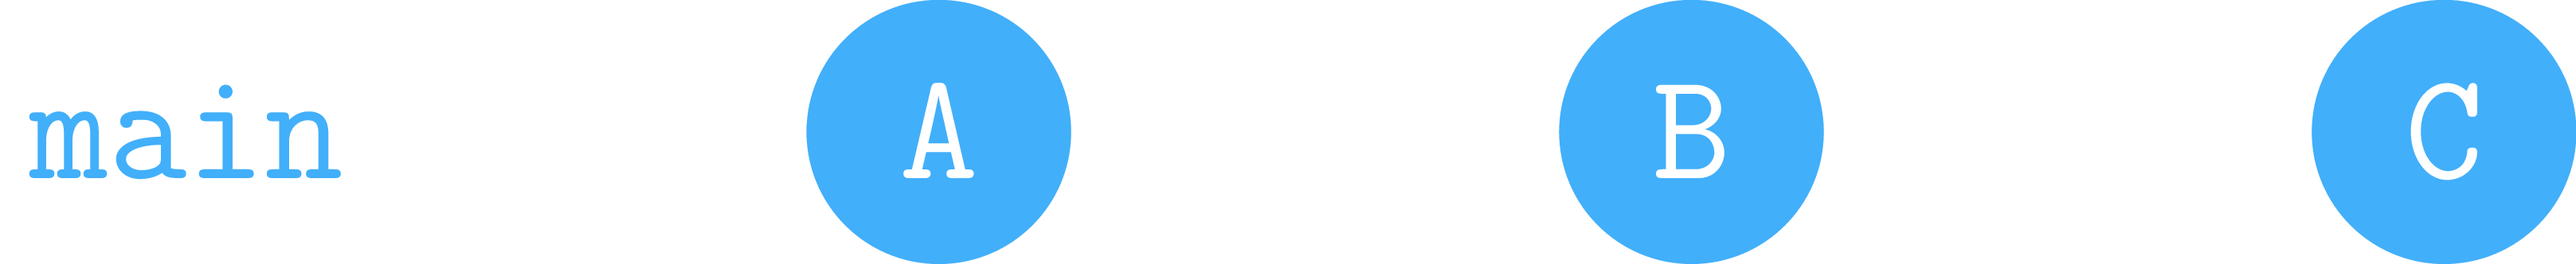
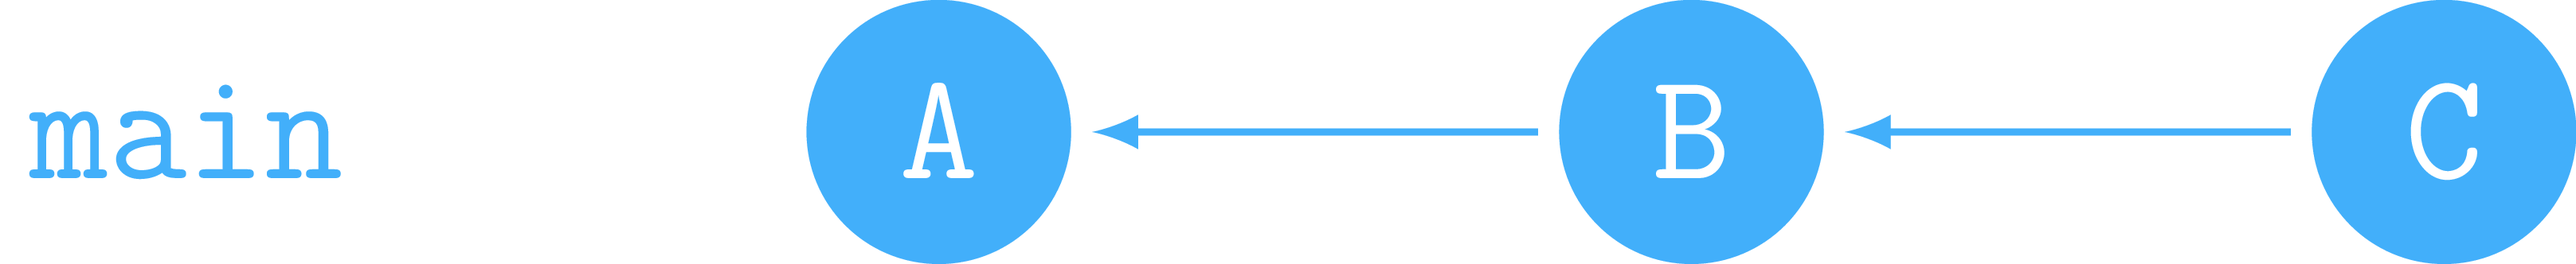
Change color of arrows in history plots
To allow better readability on GitHub

Changed region(s): [[0.406, 0.4518, 0.6246, 0.5422], [0.7183, 0.4518, 0.9057, 0.5422]]

diff --git a/version-control/material/figs/history_merge/fig.tex b/version-control/material/figs/history_merge/fig.tex
@@ -1,3 +1,4 @@
+% build with: pdflatex --shell-escape fig.tex
 \documentclass[tikz, convert={density=800}]{standalone}
 
 \usepackage{tikz}
@@ -5,7 +6,7 @@
 \definecolor{myBlue}{HTML}{42affa}
 
 \begin{document}
-\begin{tikzpicture}[>=latex, thick, shorten >=2pt, shorten <=2pt, ->, white]
+\begin{tikzpicture}[>=latex, thick, shorten >=2pt, shorten <=2pt, ->, myBlue]
   \tikzstyle{C}=[circle,fill=myBlue,text=white,minimum size=30pt,inner sep=2pt, font=\LARGE]
   \tikzstyle{M}=[circle,fill=myOrange,text=white,minimum size=30pt,inner sep=2pt, font=\LARGE]
   \tikzstyle{B}=[text=myBlue, font=\LARGE]
@@ -23,8 +24,8 @@
   \draw [<-] (B) to (C);
   \draw [<-] (A) to (D);
   \draw [<-] (D) to (E);
-  \draw [<-] (C) to (M);
-  \draw [<-] (E) to (M);
+  \draw [<-, myOrange] (C) to (M);
+  \draw [<-, myOrange] (E) to (M);
   
   \node[B] at (-3,3) {\texttt{main}};
   \node[B] at (-3,1) {\texttt{feature}};

diff --git a/version-control/material/figs/history_rebase/fig.tex b/version-control/material/figs/history_rebase/fig.tex
@@ -1,3 +1,4 @@
+% build with: pdflatex --shell-escape fig.tex
 \documentclass[tikz, convert={density=800}]{standalone}
 
 \usepackage{tikz}
@@ -5,7 +6,7 @@
 \definecolor{myBlue}{HTML}{42affa}
 
 \begin{document}
-\begin{tikzpicture}[>=latex, thick, shorten >=2pt, shorten <=2pt, ->, white]
+\begin{tikzpicture}[>=latex, thick, shorten >=2pt, shorten <=2pt, ->, myBlue]
   \tikzstyle{C}=[circle,fill=myBlue,text=white,minimum size=30pt,inner sep=2pt, font=\LARGE]
   \tikzstyle{M}=[circle,fill=myOrange,text=white,minimum size=30pt,inner sep=2pt, font=\LARGE]
   \tikzstyle{B}=[text=myBlue, font=\LARGE]

diff --git a/version-control/material/figs/history_linear/fig.tex b/version-control/material/figs/history_linear/fig.tex
@@ -1,10 +1,11 @@
+% build with: pdflatex --shell-escape fig.tex
 \documentclass[tikz, convert={density=800}]{standalone}
 
 \usepackage{tikz}
 \definecolor{myBlue}{HTML}{42affa}
 
 \begin{document}
-\begin{tikzpicture}[>=latex, thick, shorten >=2pt, shorten <=2pt, ->, white]
+\begin{tikzpicture}[>=latex, thick, shorten >=2pt, shorten <=2pt, ->, myBlue]
   \tikzstyle{C}=[circle,fill=myBlue,text=white,minimum size=30pt,inner sep=2pt, font=\LARGE]
   \tikzstyle{B}=[text=myBlue, font=\LARGE]
 
